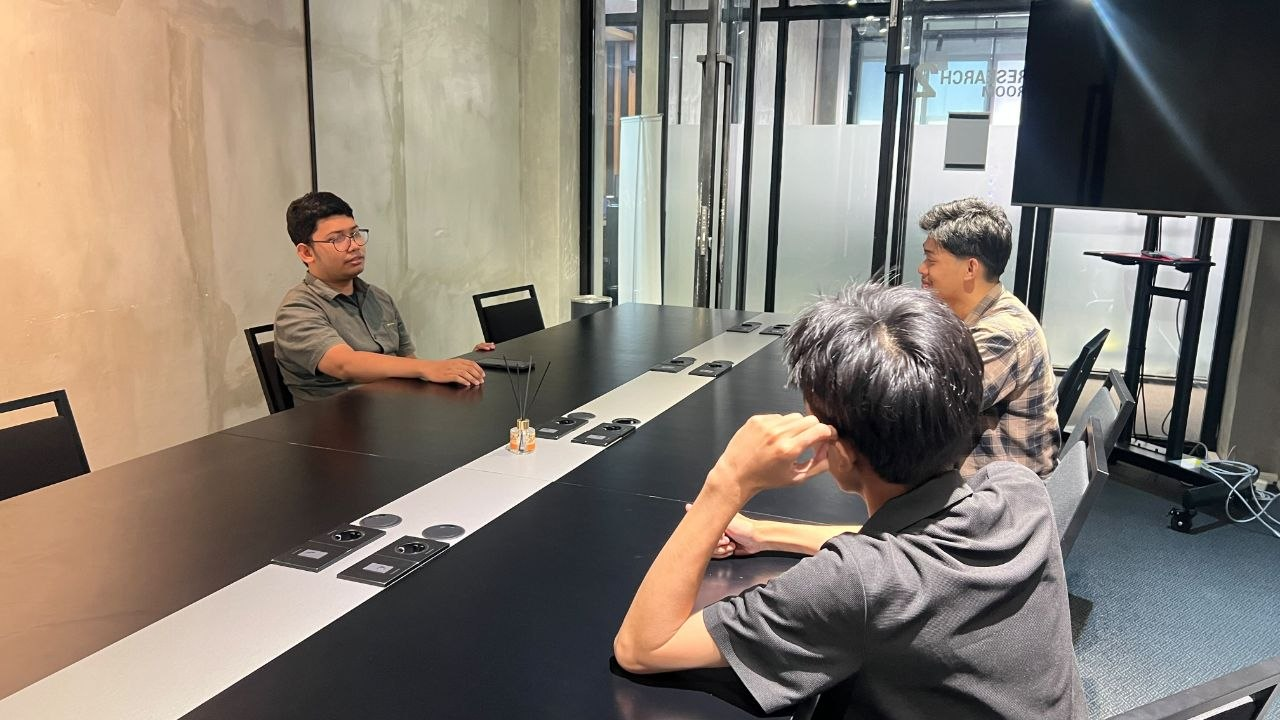
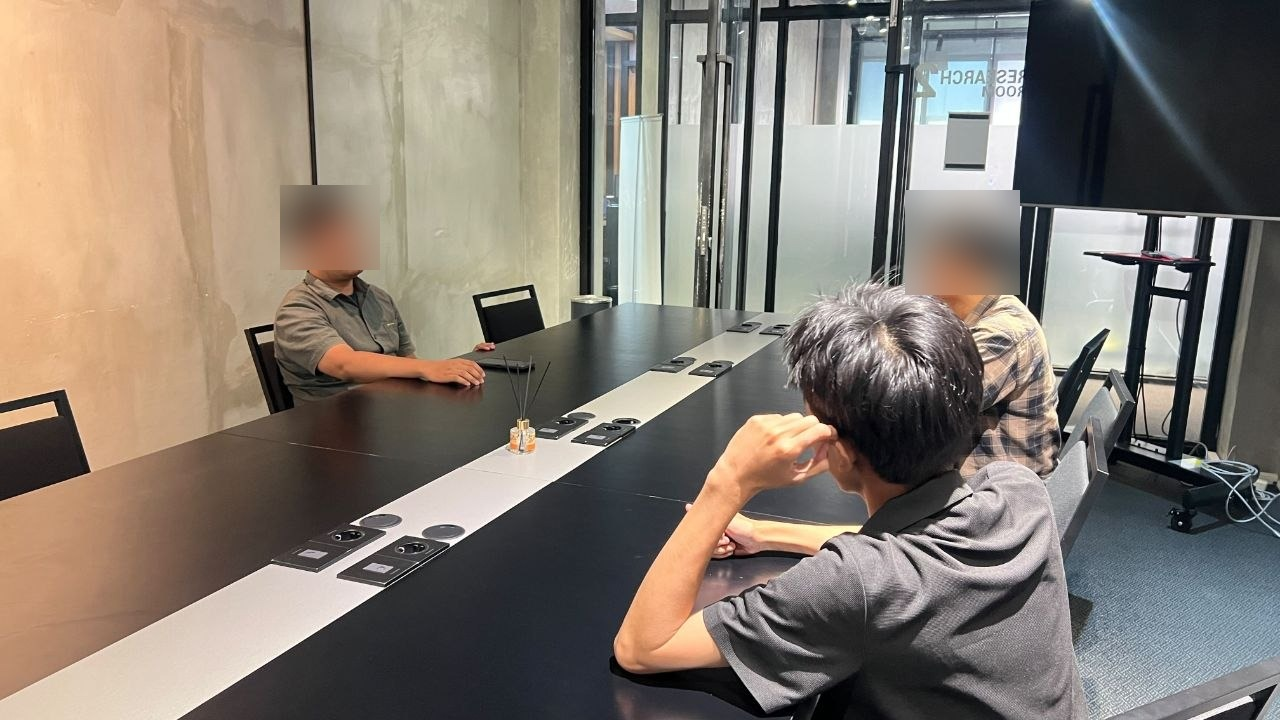
docs: tambahkan dokumentasi Bukti 2 (blur) ke U1
Claude-Session: https://claude.ai/code/session_01CvoxF7VaFN4ncn7yRtG6VM

Changed region(s): [[0.6875, 0.2444, 0.8125, 0.4278], [0.2188, 0.2444, 0.3125, 0.3972]]

diff --git a/uts/U1-Konteks-dan-ASR.md b/uts/U1-Konteks-dan-ASR.md
@@ -35,7 +35,7 @@ Ketika ditanya bagaimana cara mengetahui laboratorium yang sedang kosong, asiste
 
 > Mahasiswa bertanya langsung kepada laboran.
 
-<img width="1280" height="720" alt="image" src="https://github.com/user-attachments/assets/d4e75dc3-116e-4ba3-b286-764a994bf651" />
+<img width="1280" height="720" alt="image" src="../bukti-data/bukti-r2.jpg" />
 
 
 *Gambar 1.2 Dokumentasi Bukti 2*
